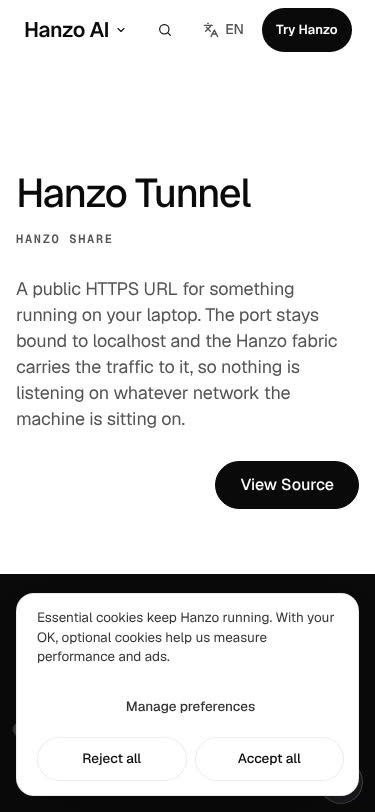
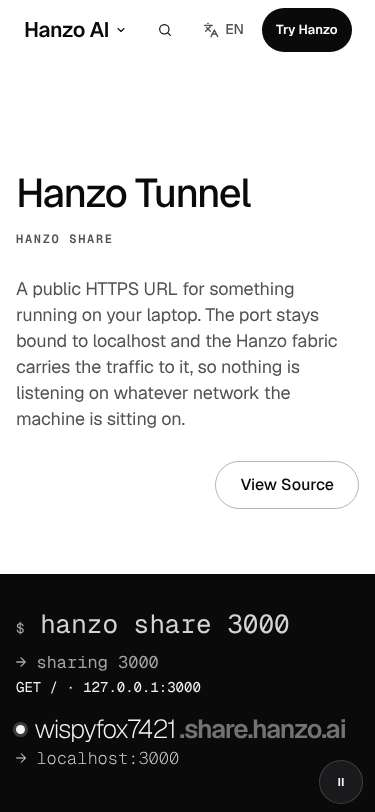
tunnel: Ready — One command lands by line mask (no third typewriter), tighter room, terminal Copy answers hover and press
Claude-Session: https://claude.ai/code/session_01P5YBdxX2mH7piDf4NGrmPi

Changed region(s): [[0.0293, 0.7081, 0.968, 0.9852], [0.5573, 0.5542, 0.968, 0.6466]]

diff --git a/components/pages/cloud/Tunnel.jsx b/components/pages/cloud/Tunnel.jsx
@@ -334,19 +334,10 @@ function Name() {
 }
 
 function One() {
-  // the command types itself once when the block is reached (the full text is in the HTML for no-JS), then a caret waits
-  const [ref, live, calm] = useLive(0.6);
-  const [n, setN] = useState(CMD.length);
-  const ran = useRef(false);
-  useEffect(() => {
-    if (!live || calm || ran.current) return;
-    ran.current = true;
-    let i = 0, t = 0;
-    const step = () => { setN(i); if (i++ < CMD.length) t = setTimeout(step, i === 1 ? 300 : 80); };
-    step();
-    return () => clearTimeout(t);
-  }, [live, calm]);
-  const end = n >= CMD.length;
+  // the command and its output land by line mask when the block is reached (the hero and the café laptop type; this
+  // one does not), then a caret waits
+  const ref = useRef(null);
+  const end = true;
   const [eref, ein] = useEnter(0.25);
   return (
     <section className="l2-sec tn2-one" ref={eref} data-in={ein ? '' : undefined}>
@@ -363,7 +354,7 @@ function One() {
             <div className="cf-code-body tn2-one-code" tabIndex={0} role="region" aria-label="Tunnel terminal">
               {/* each line is its own block and the typed command is the line's only text node (its caret is a ::after),
                   so typing never moves anything; the output's arrow keeps "→ localhost:3000" together */}
-              <pre><code><span className="cf-ln tn2-ln"><span className="tn2-ps-c" aria-hidden="true">$ </span><span className={'tn2-typed' + (end ? '' : ' on')}>{CMD.slice(0, n)}</span></span><span className={'cf-ln tn2-ln tn2-out' + (end ? '' : ' wait')}>→ sharing 3000</span><span className={'cf-ln tn2-ln tn2-out' + (end ? '' : ' wait')}>{URL_}<wbr /><span className="tn2-nb">{' → localhost:3000'}</span></span><i className={'tn2-caret tn2-wait' + (end ? '' : ' hold')} aria-hidden="true" /></code></pre>
+              <pre><code><span className="cf-ln tn2-ln"><span className="tn2-ps-c" aria-hidden="true">$ </span><span className={'tn2-typed' + (end ? '' : ' on')}>{CMD}</span></span><span className={'cf-ln tn2-ln tn2-out' + (end ? '' : ' wait')}>→ sharing 3000</span><span className={'cf-ln tn2-ln tn2-out' + (end ? '' : ' wait')}>{URL_}<wbr /><span className="tn2-nb">{' → localhost:3000'}</span></span><i className={'tn2-caret tn2-wait' + (end ? '' : ' hold')} aria-hidden="true" /></code></pre>
             </div>
           </div>
         </div>

diff --git a/components/pages/cloud/Tunnel.css b/components/pages/cloud/Tunnel.css
@@ -386,3 +386,16 @@
   html.js .tn2-gl:not([data-in]) { opacity: 0; }
   html.js .tn2-gl[data-in] { animation: tn2-glitch .28s steps(1, end) both; }
 }
+
+/* ---- run 4 (D2): "One command" lands by line mask (no third typewriter); tighter room ---- */
+.tn2-one.l2-sec { padding-block: clamp(72px, 8vw, 112px); }
+.tn2-one-code .cf-ln, .tn2-one-code .tn2-caret { transition: clip-path .6s cubic-bezier(.16, 1, .3, 1), transform .6s cubic-bezier(.16, 1, .3, 1); }
+.tn2-one-code .cf-ln:nth-child(2) { transition-delay: .18s; }
+.tn2-one-code .cf-ln:nth-child(3) { transition-delay: .36s; }
+.tn2-one-code .tn2-caret { transition-delay: .54s; }
+.js .tn2-one:not([data-in]) .tn2-one-code .cf-ln, .js .tn2-one:not([data-in]) .tn2-one-code .tn2-caret { clip-path: inset(0 0 100% 0); transform: translateY(10px); }
+@media (prefers-reduced-motion: reduce) { .js .tn2-one:not([data-in]) .tn2-one-code .cf-ln, .js .tn2-one:not([data-in]) .tn2-one-code .tn2-caret { clip-path: none; transform: none; } }
+/* the terminal's Copy answers the hover (fill and ring), and the press */
+.tn2-one .cf-code-bar button { transition: background .15s var(--ease), border-color .15s var(--ease), color .15s var(--ease), transform var(--dur-press, .1s) var(--ease); }
+@media (hover: hover) { .tn2-one .cf-code-bar button:hover { background: #262626; border-color: rgba(255, 255, 255, .32); color: #fafafa; } }
+.tn2-one .cf-code-bar button:active { transform: scale(.96); }

diff --git a/docs/coverage/tunnel.md b/docs/coverage/tunnel.md
@@ -84,7 +84,7 @@ Done here: Hovers sit in `@media (hover: hover)`; the selected mode now answers 
 - [x] Reduced motion shows the final state; no `setInterval`
 - [ ] Sound only on the listed moments, through the one kit (n/a: the page plays no sound of its own; the kit owns it)
 
-Done here: Signature: the URL opens and closes (clip-path wipe, scrubbed on desktop, played by itself on phones with Pause). Supporting (`variety.py` OK): scroll scrub, clip reveal, gliding mode pill (layoutId). Two fade-ups (lede, ask). Kinds: arrival (h1 cut-in), time (hero typing, the room's laptop typing by time, request lines, the builder typing its placeholder once, the modes stepping once, the close's terminal shutting once), pointer (the open internet's light follows the pointer), state (modes, builder), scroll (the wipe only). The sticky facts figure changes by line mask as each fact is read (time and scroll). Carets blink four times and rest. Timers are `setTimeout` chains. Reduced motion renders the settled frame with 0 console errors (the gate's shut state is set after mount, so server and client match). Not done: the critic's ask to swap the "One command" typewriter for a line mask (kept: James's rule is to never remove existing motion).
+Done here: Signature: the URL opens and closes (clip-path wipe, scrubbed on desktop, played by itself on phones with Pause). Supporting (`variety.py` OK): scroll scrub, clip reveal, gliding mode pill (layoutId). Two fade-ups (lede, ask). Kinds: arrival (h1 cut-in), time (hero typing, the room's laptop typing by time, request lines, the builder typing its placeholder once, the modes stepping once, the close's terminal shutting once), pointer (the open internet's light follows the pointer), state (modes, builder), scroll (the wipe only). The sticky facts figure changes by line mask as each fact is read (time and scroll). Carets blink four times and rest. Timers are `setTimeout` chains. Reduced motion renders the settled frame with 0 console errors (the gate's shut state is set after mount, so server and client match). "One command" no longer types: its command, output and caret land by line mask 180 ms apart when the block is reached (the hero and the café laptop keep typing), so the time motion is two typewriters, not four kinds of the same trick. The terminal's Copy answers hover with a fill and ring, and press with .96.
 
 ## 10. Media
 - [ ] `Film` and `Pic` only; sizes and posters set (n/a: no photo or video)

diff --git a/docs/review/tunnel.md b/docs/review/tunnel.md
@@ -1,5 +1,7 @@
 # /tunnel: James-eye review (third walk)
 
+Ready: 7 Nov 23:10, held up next to /api and /affiliate. Phone shows one solid (header "Try Hanzo", hero "View Source" outlined; the data-ask fix landed); CLS measured 0.0016 desk / 0.0006 phone on a wheel walk; "One command" lands by line mask instead of a third typewriter, with a tighter room; the terminal Copy answers hover and press; --name stays whole. taste/unique/parity OK (38/38, 4/4); 0 console errors, no overlap at 1470 and 375. Shared, not this page: the phone header keeps "Try Hanzo" after the hero.
+
 Reviewed: main @ `0fa3c9ed`. The last page commit is `5ebd0fae` (16:45 UTC), and the tree is clean for the page files.
 Walked 7 Nov, about 16:50 to 17:05 UTC, on the dev server at 1470×801 and 375×812 (Playwright Chromium), moving.
 - **The scroll walk.** Each walk scrolled by wheel in 0.6-viewport steps. On each screen it compared two frames taken 1.6 s apart for idle motion. It recorded solid fills, the header's ask label and fixed layers per screen.
